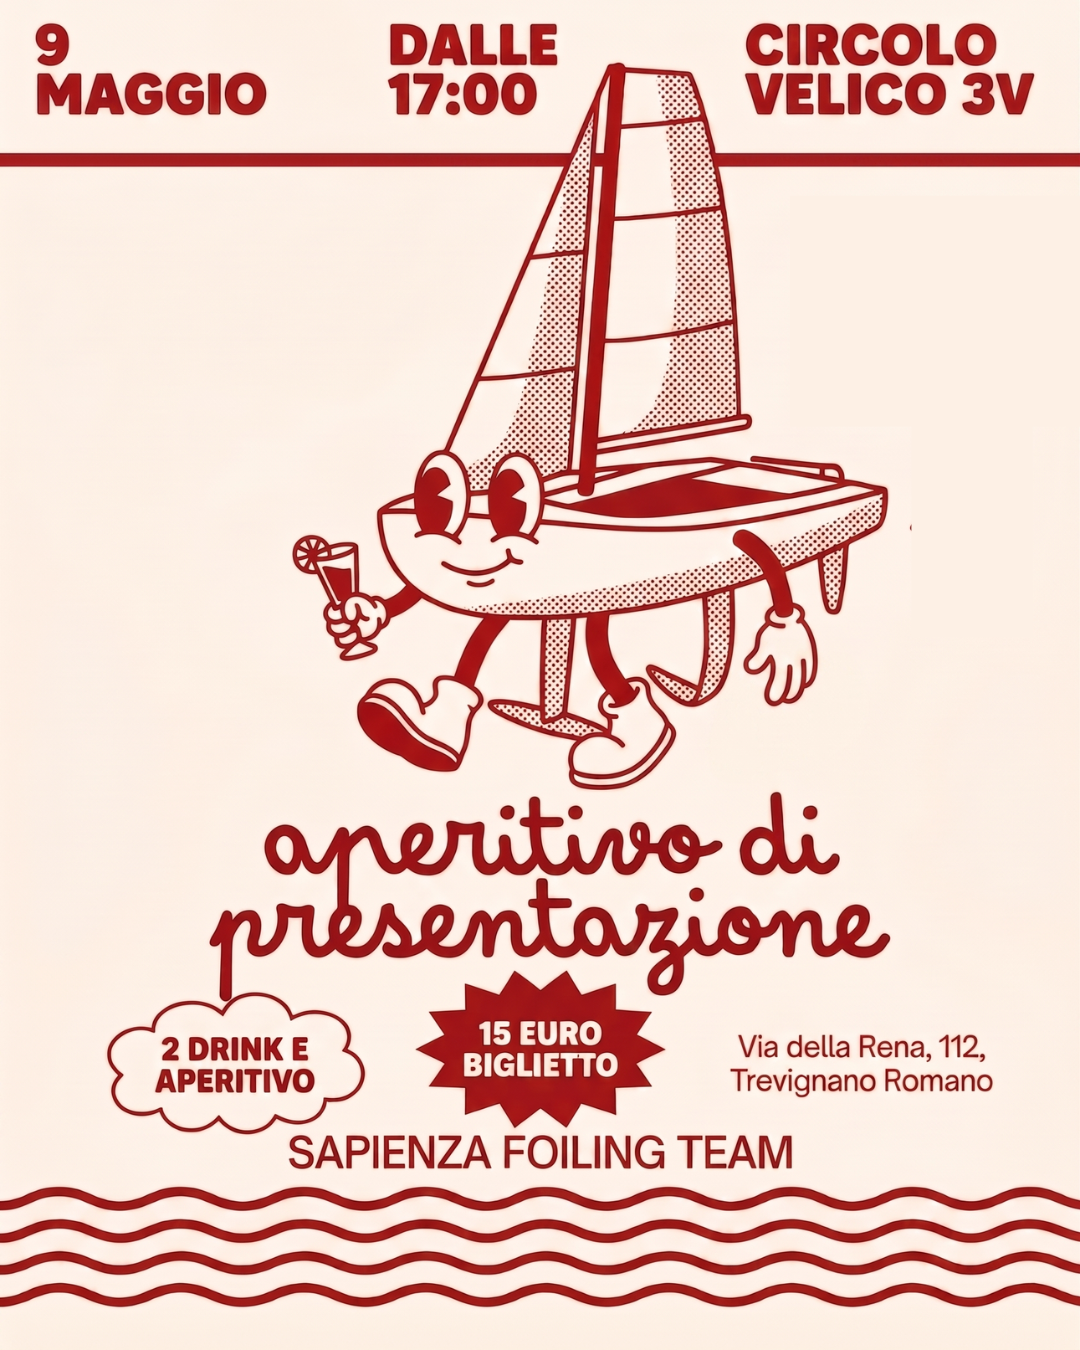
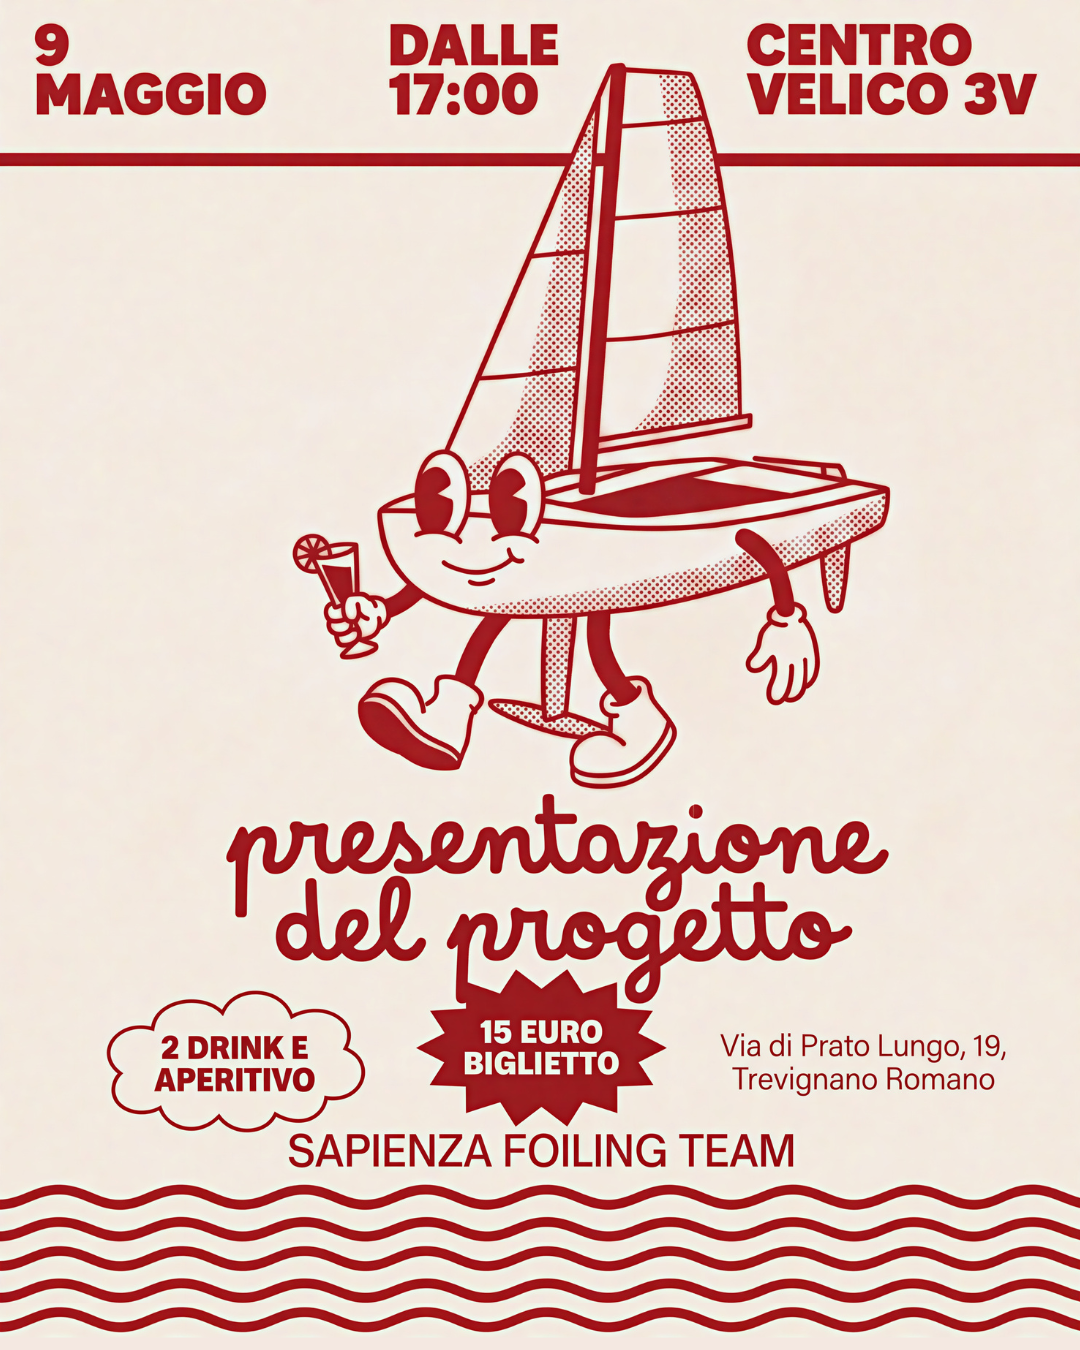
chore: update IBAN placeholder and fix indentation in registration page logic

diff --git a/app/aperitivo-presentazione/page.tsx b/app/aperitivo-presentazione/page.tsx
@@ -15,7 +15,7 @@ export default function PresentationAperitivoPage() {
     const [isRegistered, setIsRegistered] = useState(false);
     const [paymentMethod, setPaymentMethod] = useState('paypal');
 
-    const iban = "IT00 X 00000 00000 000000000000"; // Placeholder IBAN
+    const iban = " IT46 J036 6901 6001 1458 6258 543 ";
     const holder = "Federico Romeo";
     const calendarUrl = "https://www.google.com/calendar/event?action=TEMPLATE&text=Presentazione+SFT+%26+Aperitivo&dates=20260509T150000Z/20260509T180000Z&details=Ti+aspettiamo+al+Centro+Velico+3V+per+scoprire+il+nostro+progetto+e+goderci+un+aperitivo+al+tramonto!&location=Centro+Velico+3V,+Trevignano+Romano";
 
@@ -24,15 +24,15 @@ export default function PresentationAperitivoPage() {
         setCopied(true);
         setTimeout(() => setCopied(false), 2000);
     };
-// Scroll to top when registered
-useEffect(() => {
-    if (isRegistered) {
-        window.scrollTo({
-            top: 0,
-            behavior: 'smooth'
-        });
-    }
-}, [isRegistered]);
+    // Scroll to top when registered
+    useEffect(() => {
+        if (isRegistered) {
+            window.scrollTo({
+                top: 0,
+                behavior: 'smooth'
+            });
+        }
+    }, [isRegistered]);
     // Stagger config for smooth reveals
     const staggerContainer = {
         hidden: { opacity: 0 },